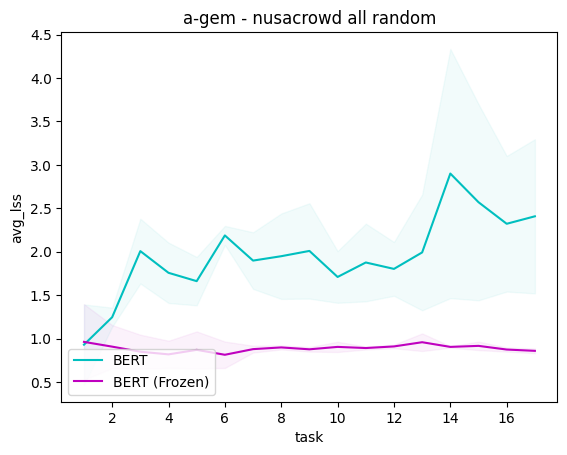
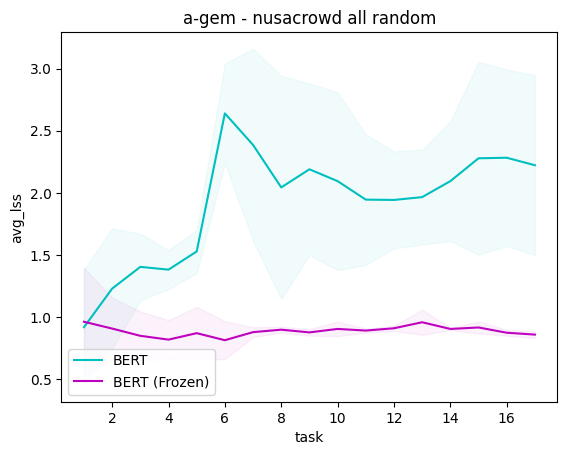
FINAL RESULT

diff --git a/src/approaches/classification/bert_cnn_mtl.py b/src/approaches/classification/bert_cnn_mtl.py
@@ -52,35 +52,32 @@ class Appr(object):
     def train(self,t,train,valid,num_train_steps,train_data,valid_data):
         self.model=deepcopy(self.initial_model) # Restart model
 
-        # global_step = 0
-        # self.model.to(self.device)
+        global_step = 0
+        self.model.to(self.device)
 
-        # param_optimizer = [(k, v) for k, v in self.model.named_parameters() if v.requires_grad==True]
-        # param_optimizer = [n for n in param_optimizer if 'pooler' not in n[0]]
-        # no_decay = ['bias', 'LayerNorm.bias', 'LayerNorm.weight']
-        # optimizer_grouped_parameters = [
-        #     {'params': [p for n, p in param_optimizer if not any(nd in n for nd in no_decay)], 'weight_decay': 0.01},
-        #     {'params': [p for n, p in param_optimizer if any(nd in n for nd in no_decay)], 'weight_decay': 0.0}
-        #     ]
-        # t_total = num_train_steps
-        # optimizer = BertAdam(optimizer_grouped_parameters,
-        #                      lr=self.args.learning_rate,
-        #                      warmup=self.args.warmup_proportion,
-        #                      t_total=t_total)
+        param_optimizer = [(k, v) for k, v in self.model.named_parameters() if v.requires_grad==True]
+        param_optimizer = [n for n in param_optimizer if 'pooler' not in n[0]]
+        no_decay = ['bias', 'LayerNorm.bias', 'LayerNorm.weight']
+        optimizer_grouped_parameters = [
+            {'params': [p for n, p in param_optimizer if not any(nd in n for nd in no_decay)], 'weight_decay': 0.01},
+            {'params': [p for n, p in param_optimizer if any(nd in n for nd in no_decay)], 'weight_decay': 0.0}
+            ]
+        t_total = num_train_steps
+        optimizer = BertAdam(optimizer_grouped_parameters,
+                             lr=self.args.learning_rate,
+                             warmup=self.args.warmup_proportion,
+                             t_total=t_total)
 
 
         best_loss=np.inf
         best_model=utils.get_model(self.model)
-        lr=self.lr
-        patience=self.lr_patience
-        self.optimizer=self._get_optimizer(lr)
 
         # Loop epochs
         for e in range(int(self.args.num_train_epochs)):
             # Train
             clock0=time.time()
             iter_bar = tqdm(train, desc='Train Iter (loss=X.XXX)')
-            self.train_epoch(t,train,iter_bar)
+            global_step=self.train_epoch(t,train,iter_bar, optimizer,t_total,global_step)
             clock1=time.time()
 
             train_loss=self.eval_validation(t,train)
@@ -94,18 +91,7 @@ class Appr(object):
             if valid_loss<best_loss:
                 best_loss=valid_loss
                 best_model=utils.get_model(self.model)
-                patience=self.lr_patience
                 print(' *',end='')
-            else:
-                patience-=1
-                if patience<=0:
-                    lr/=self.lr_factor
-                    print(' lr={:.1e}'.format(lr),end='')
-                    if lr<self.lr_min:
-                        print()
-                        break
-                    patience=self.lr_patience
-                    self.optimizer=self._get_optimizer(lr)
 
             print()
             # break
@@ -132,15 +118,15 @@ class Appr(object):
             iter_bar.set_description('Train Iter (loss=%5.3f)' % loss.item())
             loss.backward()
 
-            # lr_this_step = self.args.learning_rate * \
-            #                self.warmup_linear(global_step/t_total, self.args.warmup_proportion)
-            # for param_group in optimizer.param_groups:
-            #     param_group['lr'] = lr_this_step
-            # optimizer.step()
-            # optimizer.zero_grad()
-            # global_step += 1
+            lr_this_step = self.args.learning_rate * \
+                           self.warmup_linear(global_step/t_total, self.args.warmup_proportion)
+            for param_group in optimizer.param_groups:
+                param_group['lr'] = lr_this_step
+            optimizer.step()
+            optimizer.zero_grad()
+            global_step += 1
 
-        return 
+        return global_step
 
     def eval_validation(self,_,data):
         total_loss=0

diff --git a/src/utils.py b/src/utils.py
@@ -633,12 +633,12 @@ def calculate_metrics(data):
         for row in result_df.values.tolist():
             csv_writer.writerow(row)
             
-    # with open('res/til_classification/result_per_setting.csv', 'a', newline='') as fp:
-    #     csv_writer = csv.writer(fp, delimiter=',')
+    with open('res/til_classification/result_per_setting.csv', 'a', newline='') as fp:
+        csv_writer = csv.writer(fp, delimiter=',')
         
-    #     list_row = result_df_aggr.values.tolist()
-    #     for i in range (len(list_row)):
-    #         csv_writer.writerow([result_df_aggr.index.get_level_values(0).to_list()[i]] + [result_df_aggr.index.get_level_values(1).to_list()[i]] + ['{:,.4f}'.format(elmt) for elmt in list_row[i]])
+        list_row = result_df_aggr.values.tolist()
+        for i in range (len(list_row)):
+            csv_writer.writerow([result_df_aggr.index.get_level_values(0).to_list()[i]] + [result_df_aggr.index.get_level_values(1).to_list()[i]] + ['{:,.4f}'.format(elmt) for elmt in list_row[i]])
 
 def get_worst_forgetting(dir_name, exp_id, backbone, baseline, list_task): # n: jumlah data worst yang dipakai
     output = get_output(backbone, baseline, exp_id)
@@ -942,21 +942,6 @@ if __name__ == "__main__":
         [['bert', 'bert_frozen'], ['one'], 'multi_backbone']
     ]
     
-    # list_create_viz = [
-    #     # multi_baseline
-    #     [['bert'], ['mtl', 'one', 'ncl', 'a-gem', 'ewc', 'hat'], 'multi_baseline'],
-    #     [['bert_frozen'], ['mtl', 'one', 'ncl', 'a-gem', 'ewc', 'hat'], 'multi_baseline'],
-        
-    #     # multi_backbone
-    #     [['bert_adapter', 'bert_frozen', 'bert'], ['a-gem'], 'multi_backbone'],
-    #     [['bert_adapter', 'bert_frozen', 'bert'], ['ewc'], 'multi_backbone'],
-    #     [['bert_adapter', 'bert_frozen'], ['hat'], 'multi_backbone'],
-    #     [['bert_frozen'], ['kan'], 'multi_backbone'],
-    #     [['bert', 'bert_adapter'], ['mtl'], 'multi_backbone'],
-    #     [['bert', 'bert_frozen'], ['ncl'], 'multi_backbone'],
-    #     [['bert', 'bert_frozen'], ['one'], 'multi_backbone']
-    # ]
-    
     for elmt in list_create_viz:
         run_create_viz(elmt[0], elmt[1], 'nusacrowd all random', elmt[2])
     
@@ -964,7 +949,7 @@ if __name__ == "__main__":
     # calculate_metrics(81, 'bert_adapter', 'a-gem')
     
     # recalculate all experiments        
-    # calculate_metrics(list_exp.iterrows())
+    calculate_metrics(list_exp.iterrows())
     
     # get worst forgetting
     # with open('res/til_classification/result_transfer_cl.csv', 'a', newline='') as fp:

diff --git a/src/run.py b/src/run.py
@@ -239,17 +239,18 @@ for t,ncla in taskcla:
         if hasattr(appr, 'similarities'): torch.save(appr.similarities,args.model_path+'_similarities') # not in state_dict
         if hasattr(appr, 'check_federated'): torch.save(appr.check_federated,args.model_path+'_check_federated') # not in state_dict
 
+        if hasattr(appr, 'mask_pre'): torch.save(appr.mask_pre,args.aux_model_path+'_mask_pre') # not in state_dict
+        if hasattr(appr, 'mask_back'): torch.save(appr.mask_back,args.aux_model_path+'_mask_back')
 
-
-#         if args.aux_net:
-#             torch.save({
-#                         'model_state_dict': appr.aux_model.state_dict(),
-#                         }, args.aux_model_path)
-#             if hasattr(appr, 'mask_pre'): torch.save(appr.mask_pre,args.aux_model_path+'_mask_pre') # not in state_dict
-#             if hasattr(appr, 'mask_back'): torch.save(appr.mask_back,args.aux_model_path+'_mask_back')
-#         else:
-#             if hasattr(appr, 'mask_pre'): torch.save(appr.mask_pre,args.model_path+'_mask_pre') # not in state_dict
-#             if hasattr(appr, 'mask_back'): torch.save(appr.mask_back,args.model_path+'_mask_back')
+        if args.aux_net:
+            torch.save({
+                        'model_state_dict': appr.aux_model.state_dict(),
+                        }, args.aux_model_path)
+            if hasattr(appr, 'mask_pre'): torch.save(appr.mask_pre,args.aux_model_path+'_mask_pre') # not in state_dict
+            if hasattr(appr, 'mask_back'): torch.save(appr.mask_back,args.aux_model_path+'_mask_back')
+        else:
+            if hasattr(appr, 'mask_pre'): torch.save(appr.mask_pre,args.model_path+'_mask_pre') # not in state_dict
+            if hasattr(appr, 'mask_back'): torch.save(appr.mask_back,args.model_path+'_mask_back')
 
     # ----------------------------------------------------------------------
     # Start Testing.
